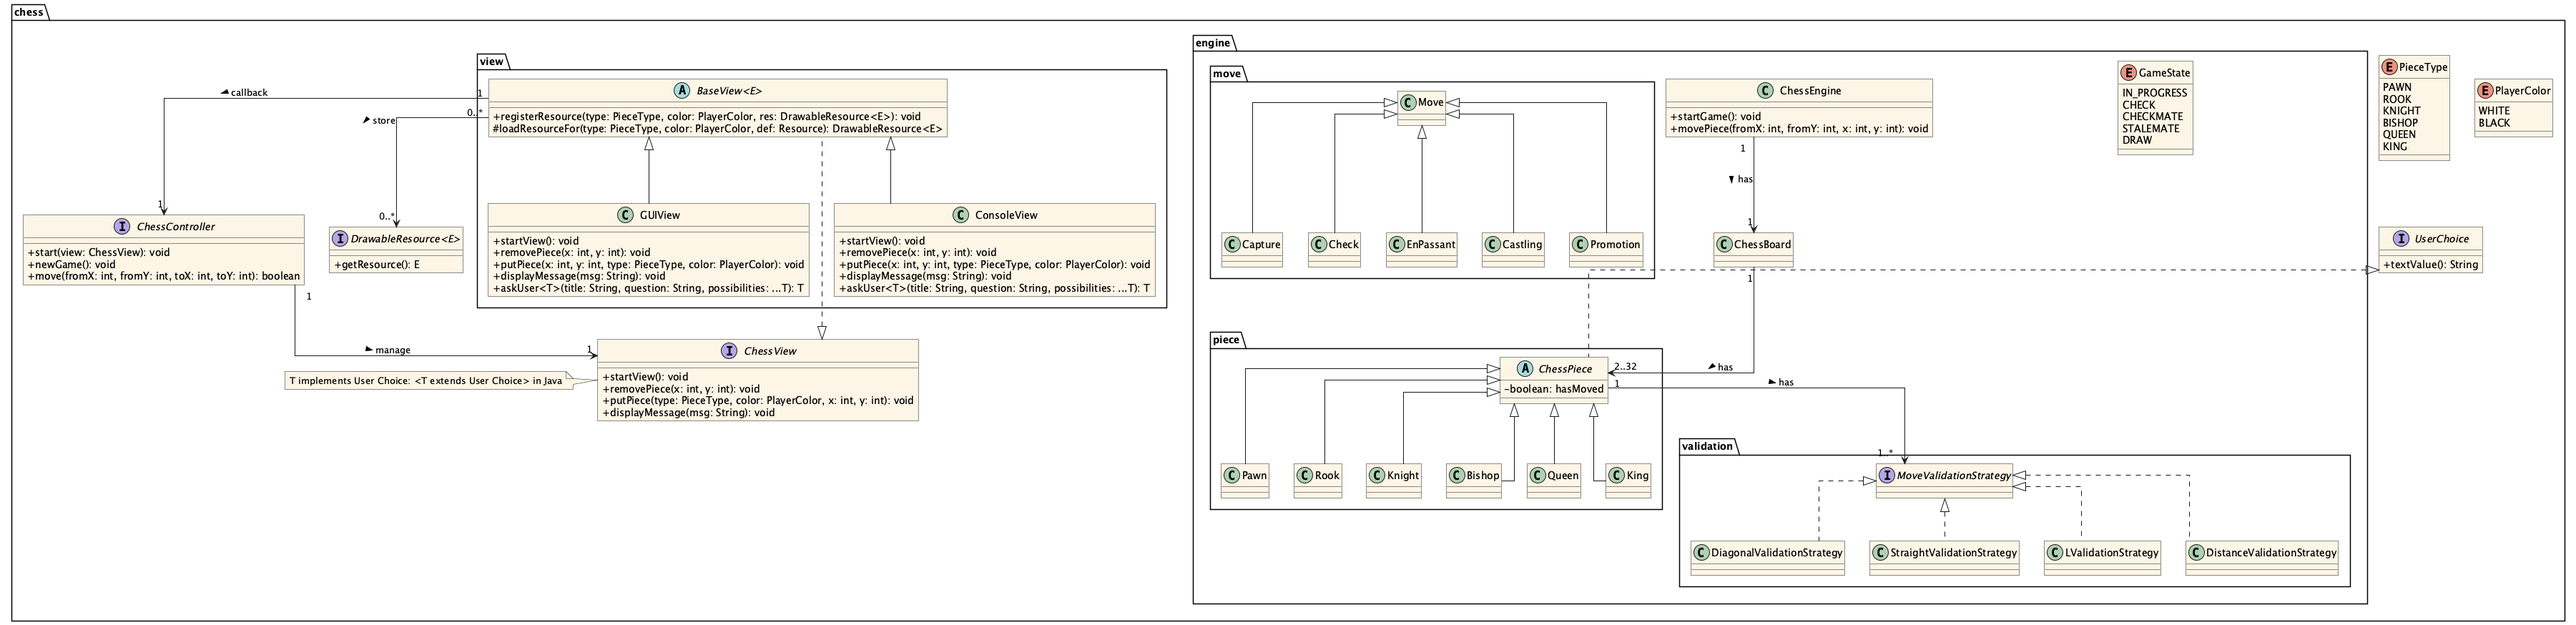
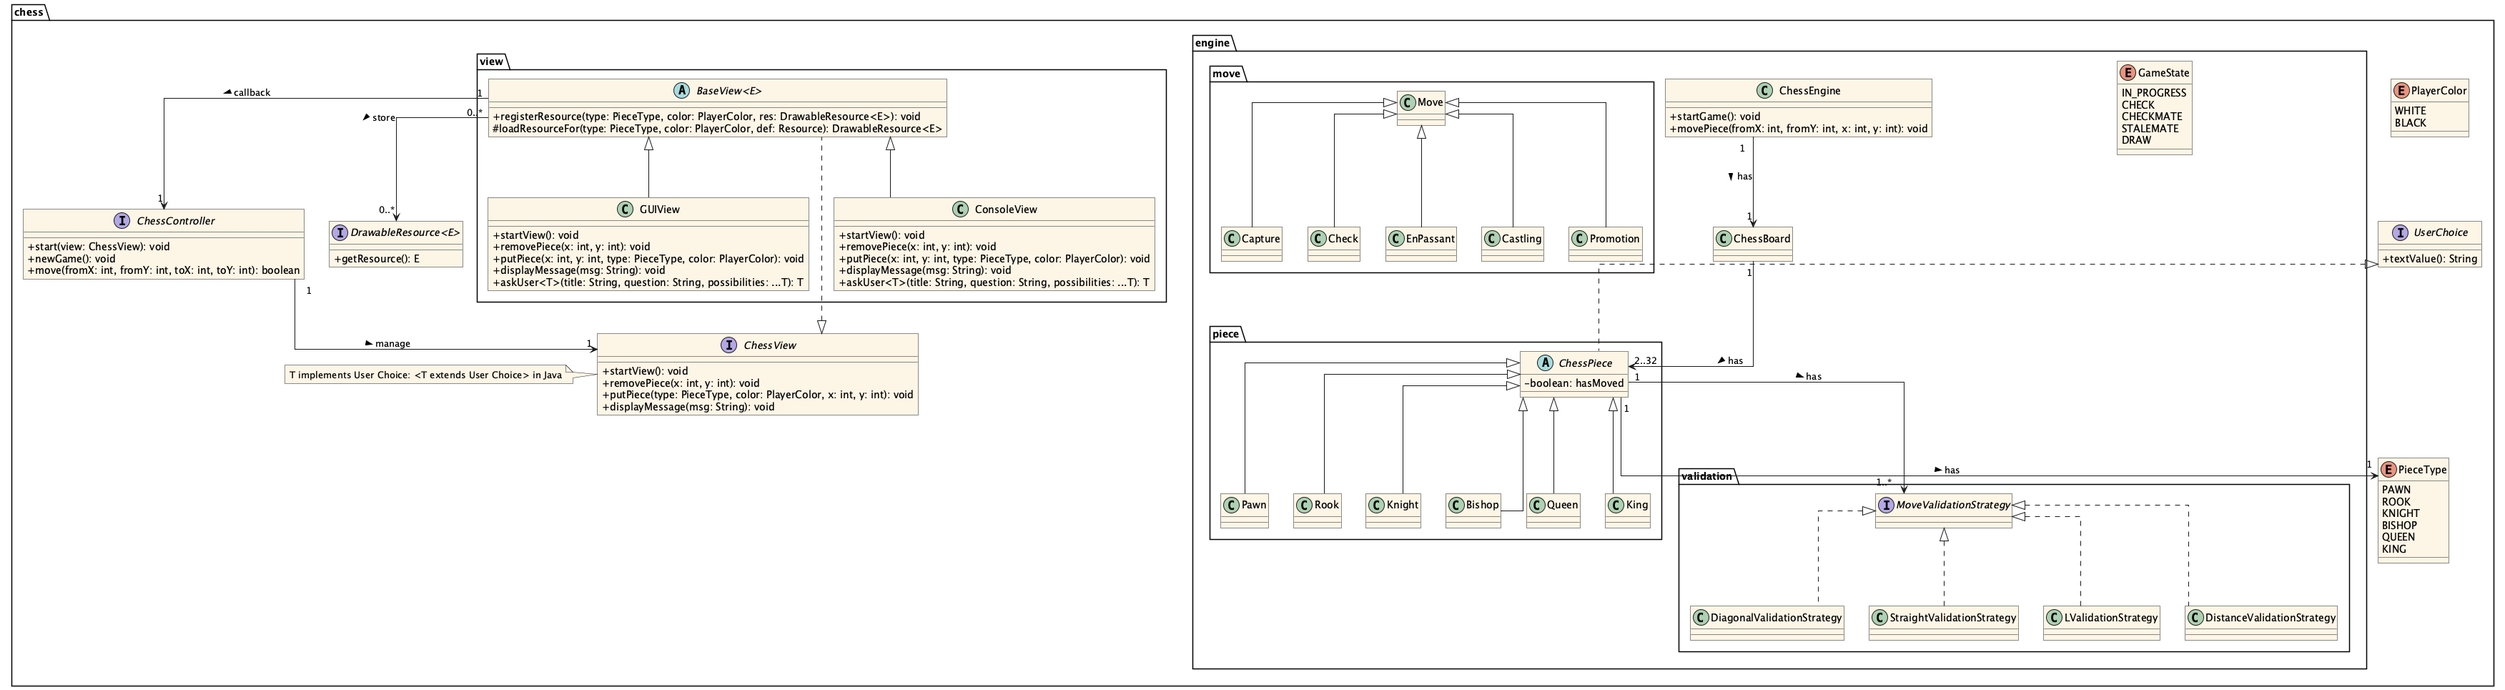
Initialise board

diff --git a/chess/engine/ChessBoardInitializer.java b/chess/engine/ChessBoardInitializer.java
@@ -1,0 +1,56 @@
+package chess.engine;
+
+import chess.PlayerColor;
+import chess.engine.piece.*;
+
+import java.util.Map;
+
+class ChessBoardInitializer {
+    public static void initializeBoard(Map<Position, ChessPiece> pieces) {
+        pieces.clear();
+        placePawns(pieces);
+        placeRooks(pieces);
+        placeKnights(pieces);
+        placeBishops(pieces);
+        placeKings(pieces);
+        placeQueens(pieces);
+    }
+
+    private static void placePawns(Map<Position, ChessPiece> pieces) {
+        for (int i = 0; i < 8; i++) {
+            pieces.put(new Position(i, 6), new Pawn(PlayerColor.WHITE));
+            pieces.put(new Position(i, 1), new Pawn(PlayerColor.BLACK));
+        }
+    }
+
+    private static void placeRooks(Map<Position, ChessPiece> pieces) {
+        pieces.put(new Position(0, 0), new Rook(PlayerColor.BLACK));
+        pieces.put(new Position(7, 0), new Rook(PlayerColor.BLACK));
+        pieces.put(new Position(0, 7), new Rook(PlayerColor.WHITE));
+        pieces.put(new Position(7, 7), new Rook(PlayerColor.WHITE));
+    }
+
+    private static void placeKnights(Map<Position, ChessPiece> pieces) {
+        pieces.put(new Position(1, 0), new Knight(PlayerColor.BLACK));
+        pieces.put(new Position(6, 0), new Knight(PlayerColor.BLACK));
+        pieces.put(new Position(1, 7), new Knight(PlayerColor.WHITE));
+        pieces.put(new Position(6, 7), new Knight(PlayerColor.WHITE));
+    }
+
+    private static void placeBishops(Map<Position, ChessPiece> pieces) {
+        pieces.put(new Position(2, 0), new Bishop(PlayerColor.BLACK));
+        pieces.put(new Position(5, 0), new Bishop(PlayerColor.BLACK));
+        pieces.put(new Position(2, 7), new Bishop(PlayerColor.WHITE));
+        pieces.put(new Position(5, 7), new Bishop(PlayerColor.WHITE));
+    }
+
+    private static void placeKings(Map<Position, ChessPiece> pieces) {
+        pieces.put(new Position(4, 0), new King(PlayerColor.BLACK));
+        pieces.put(new Position(4, 7), new King(PlayerColor.WHITE));
+    }
+
+    private static void placeQueens(Map<Position, ChessPiece> pieces) {
+        pieces.put(new Position(3, 0), new Queen(PlayerColor.BLACK));
+        pieces.put(new Position(3, 7), new Queen(PlayerColor.WHITE));
+    }
+}

diff --git a/chess/engine/ChessEngine.java b/chess/engine/ChessEngine.java
@@ -2,12 +2,22 @@ package chess.engine;
 
 import chess.ChessController;
 import chess.ChessView;
+import chess.PieceType;
+import chess.PlayerColor;
+import chess.engine.piece.ChessPiece;
+import chess.engine.piece.Position;
+
+import java.util.Map;
 
 public class ChessEngine implements ChessController {
+    private final ChessBoard board = new ChessBoard();
+    private ChessView view;
 
     @Override
     public void start(ChessView view) {
-        
+        this.view = view;
+        view.startView();
+        newGame();
     }
 
     @Override
@@ -17,6 +27,12 @@ public class ChessEngine implements ChessController {
 
     @Override
     public void newGame() {
-
+        if (view == null) {
+            throw new RuntimeException("View must be set before calling newGame()");
+        }
+        board.reset();
+        board.getPieces().forEach((pos, chessPiece) ->
+                view.putPiece(chessPiece.getType(), chessPiece.getColor(), pos.x, pos.y)
+        );
     }
 }

diff --git a/chess/engine/piece/Position.java b/chess/engine/piece/Position.java
@@ -1,0 +1,26 @@
+package chess.engine.piece;
+
+public final class Position {
+    public final int x;
+    public final int y;
+
+    public Position(int x, int y) {
+        this.x = x;
+        this.y = y;
+    }
+
+    public boolean equals(Position other) {
+        return x == other.x && y == other.y;
+    }
+
+    @Override
+    public int hashCode() {
+        // 31 because it's a prime number
+        return x * 31 + y;
+    }
+
+    @Override
+    public String toString() {
+        return "(" + x + ", " + y + ")";
+    }
+}

diff --git a/chess/engine/piece/ChessPiece.java b/chess/engine/piece/ChessPiece.java
@@ -1,0 +1,22 @@
+package chess.engine.piece;
+
+import chess.PieceType;
+import chess.PlayerColor;
+
+public abstract class ChessPiece {
+    protected final PieceType type;
+    protected final PlayerColor color;
+
+    public ChessPiece(PieceType type, PlayerColor color) {
+        this.type = type;
+        this.color = color;
+    }
+
+    public PieceType getType() {
+        return type;
+    }
+
+    public PlayerColor getColor() {
+        return color;
+    }
+}

diff --git a/chess/engine/ChessBoard.java b/chess/engine/ChessBoard.java
@@ -1,0 +1,22 @@
+package chess.engine;
+
+import chess.engine.piece.*;
+
+import java.util.HashMap;
+import java.util.Map;
+
+public class ChessBoard {
+    private final Map<Position, ChessPiece> pieces = new HashMap<>();
+
+    public ChessBoard() {
+        reset();
+    }
+
+    public Map<Position, ChessPiece> getPieces() {
+        return pieces;
+    }
+
+    public void reset() {
+        ChessBoardInitializer.initializeBoard(pieces);
+    }
+}

diff --git a/Main.java b/Main.java
@@ -1,5 +1,3 @@
-package chess;
-
 import chess.engine.ChessEngine;
 import chess.views.gui.GUIView;
 
@@ -7,6 +5,6 @@ public class Main {
     public static void main(String[] args) {
         ChessEngine chessController = new ChessEngine();
         GUIView view = new GUIView(chessController);
-        view.startView();
+        chessController.start(view);
     }
 }

diff --git a/chess/engine/piece/Bishop.java b/chess/engine/piece/Bishop.java
@@ -1,0 +1,11 @@
+package chess.engine.piece;
+
+import chess.PieceType;
+import chess.PlayerColor;
+
+public class Bishop extends ChessPiece {
+
+    public Bishop(PlayerColor color) {
+        super(PieceType.BISHOP, color);
+    }
+}

diff --git a/chess/engine/piece/Knight.java b/chess/engine/piece/Knight.java
@@ -1,0 +1,11 @@
+package chess.engine.piece;
+
+import chess.PieceType;
+import chess.PlayerColor;
+
+public class Knight extends ChessPiece {
+
+    public Knight(PlayerColor color) {
+        super(PieceType.KNIGHT, color);
+    }
+}

diff --git a/chess/engine/piece/Queen.java b/chess/engine/piece/Queen.java
@@ -1,0 +1,11 @@
+package chess.engine.piece;
+
+import chess.PieceType;
+import chess.PlayerColor;
+
+public class Queen extends ChessPiece {
+
+    public Queen(PlayerColor color) {
+        super(PieceType.QUEEN, color);
+    }
+}

diff --git a/chess/engine/piece/King.java b/chess/engine/piece/King.java
@@ -1,0 +1,11 @@
+package chess.engine.piece;
+
+import chess.PieceType;
+import chess.PlayerColor;
+
+public class King extends ChessPiece {
+
+    public King(PlayerColor color) {
+        super(PieceType.KING, color);
+    }
+}

diff --git a/chess/engine/piece/Pawn.java b/chess/engine/piece/Pawn.java
@@ -1,0 +1,11 @@
+package chess.engine.piece;
+
+import chess.PieceType;
+import chess.PlayerColor;
+
+public class Pawn extends ChessPiece {
+
+    public Pawn(PlayerColor color) {
+        super(PieceType.PAWN, color);
+    }
+}

diff --git a/chess/engine/piece/Rook.java b/chess/engine/piece/Rook.java
@@ -1,0 +1,11 @@
+package chess.engine.piece;
+
+import chess.PieceType;
+import chess.PlayerColor;
+
+public class Rook extends ChessPiece {
+
+    public Rook(PlayerColor color) {
+        super(PieceType.ROOK, color);
+    }
+}
